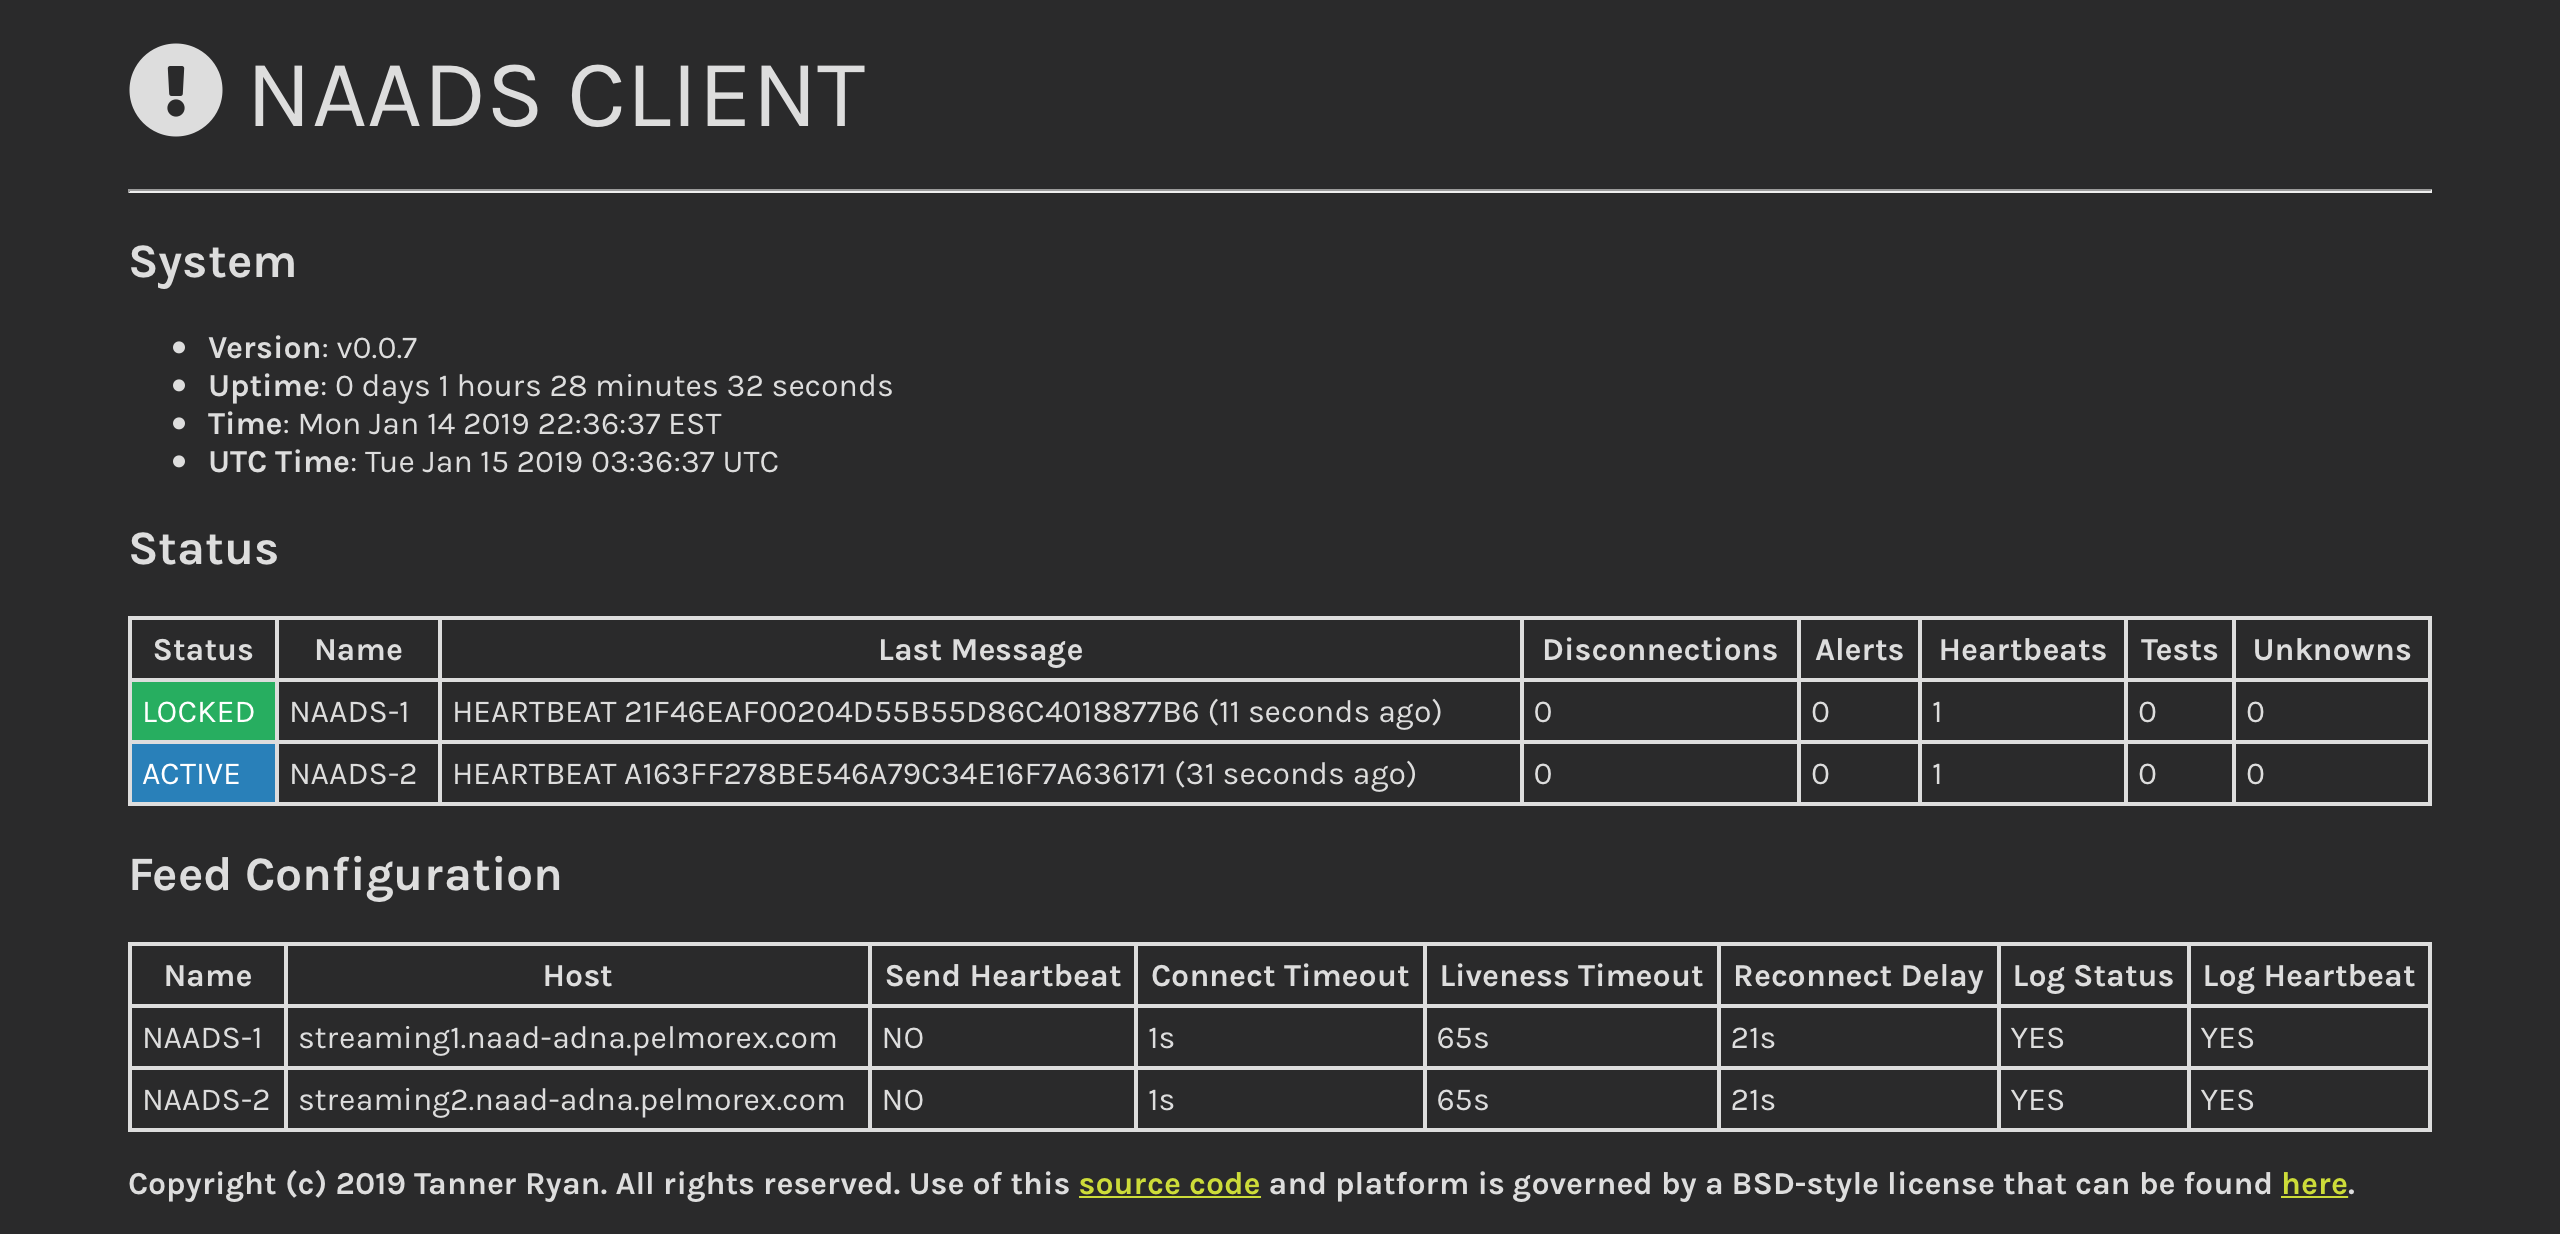
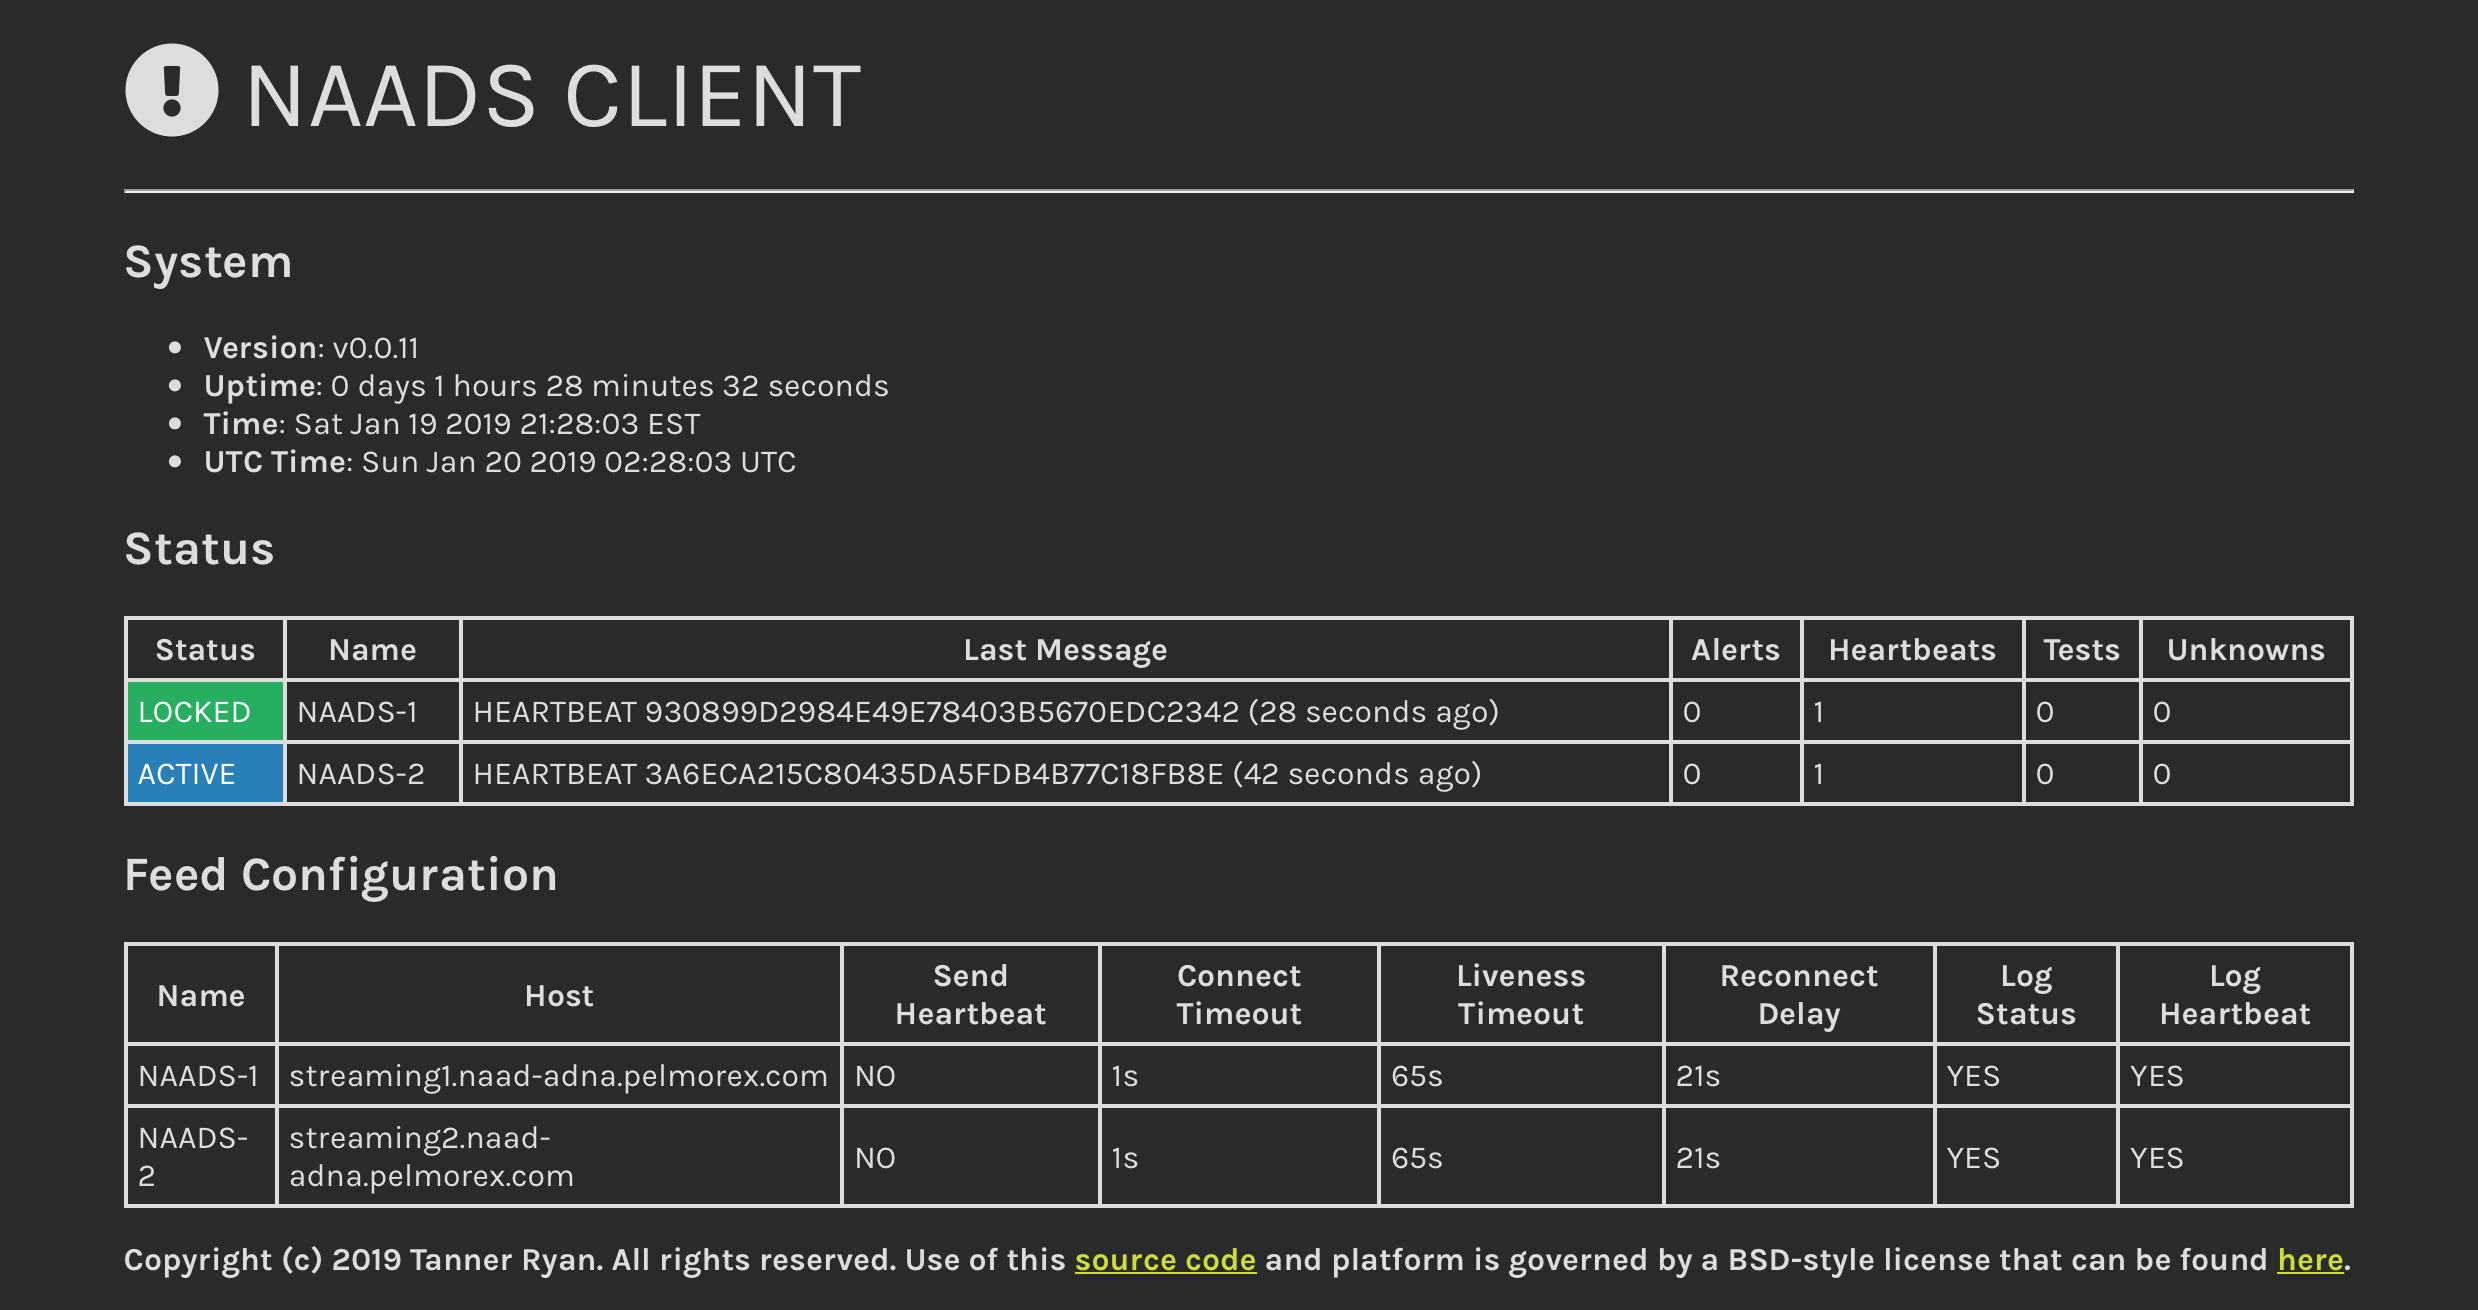
Remove disconnect count

Changed region(s): [[0.0311, 0.1848, 0.9633, 0.9238], [0.0621, 0.0308, 0.9322, 0.154], [0.0621, 0.9546, 0.9633, 0.9854]]

diff --git a/status.html b/status.html
@@ -31,24 +31,20 @@
             <th>Status</th>
             <th>Name</th>
             <th>Last Message</th>
-            <th>Disconnections</th>
             <th>Alerts</th>
             <th>Heartbeats</th>
             <th>Tests</th>
             <th>Unknowns</th>
         </tr>
-        {{range .FeedStatus}}
-        <tr>
+        {{range .FeedStatus}}<tr>
             <td class="{{.StatusStyle}}">{{.Status}}</td>
             <td>{{.Name}}</td>
             <td>{{.LastMsg}} {{.LastMsgTime}}</td>
-            <td>{{.CountDisconnect}}</td>
             <td>{{.CountAlert}}</td>
             <td>{{.CountHeartbeat}}</td>
             <td>{{.CountTest}}</td>
             <td>{{.CountUnknown}}</td>
-        </tr>
-        {{end}}
+        </tr>{{end}}
     </table>
     <h2>Feed Configuration</h2>
     <table class="full-width">
@@ -62,8 +58,7 @@
             <th>Log Status</th>
             <th>Log Heartbeat</th>
         </tr>
-        {{range .FeedConfig}}
-        <tr>
+        {{range .FeedConfig}}<tr>
             <td>{{.Name}}</td>
             <td>{{.Host}}</td>
             <td>{{.SendHeartbeat}}</td>
@@ -72,8 +67,7 @@
             <td>{{.ReconnectDelay}}</td>
             <td>{{.LogStatus}}</td>
             <td>{{.LogHeartbeat}}</td>
-        </tr>
-        {{end}}
+        </tr>{{end}}
     </table>
     <p><strong>Copyright (c) 2019 Tanner Ryan. All rights reserved. Use of this
             <a href="https://github.com/TheTannerRyan/naads"

diff --git a/naads.go b/naads.go
@@ -12,7 +12,7 @@ import (
 	"github.com/thetannerryan/cap"
 )
 
-const version = "v0.0.10" // NAADS client version
+const version = "v0.0.11" // NAADS client version
 
 // Client represents the configuration for the NAAD client.
 type Client struct {
